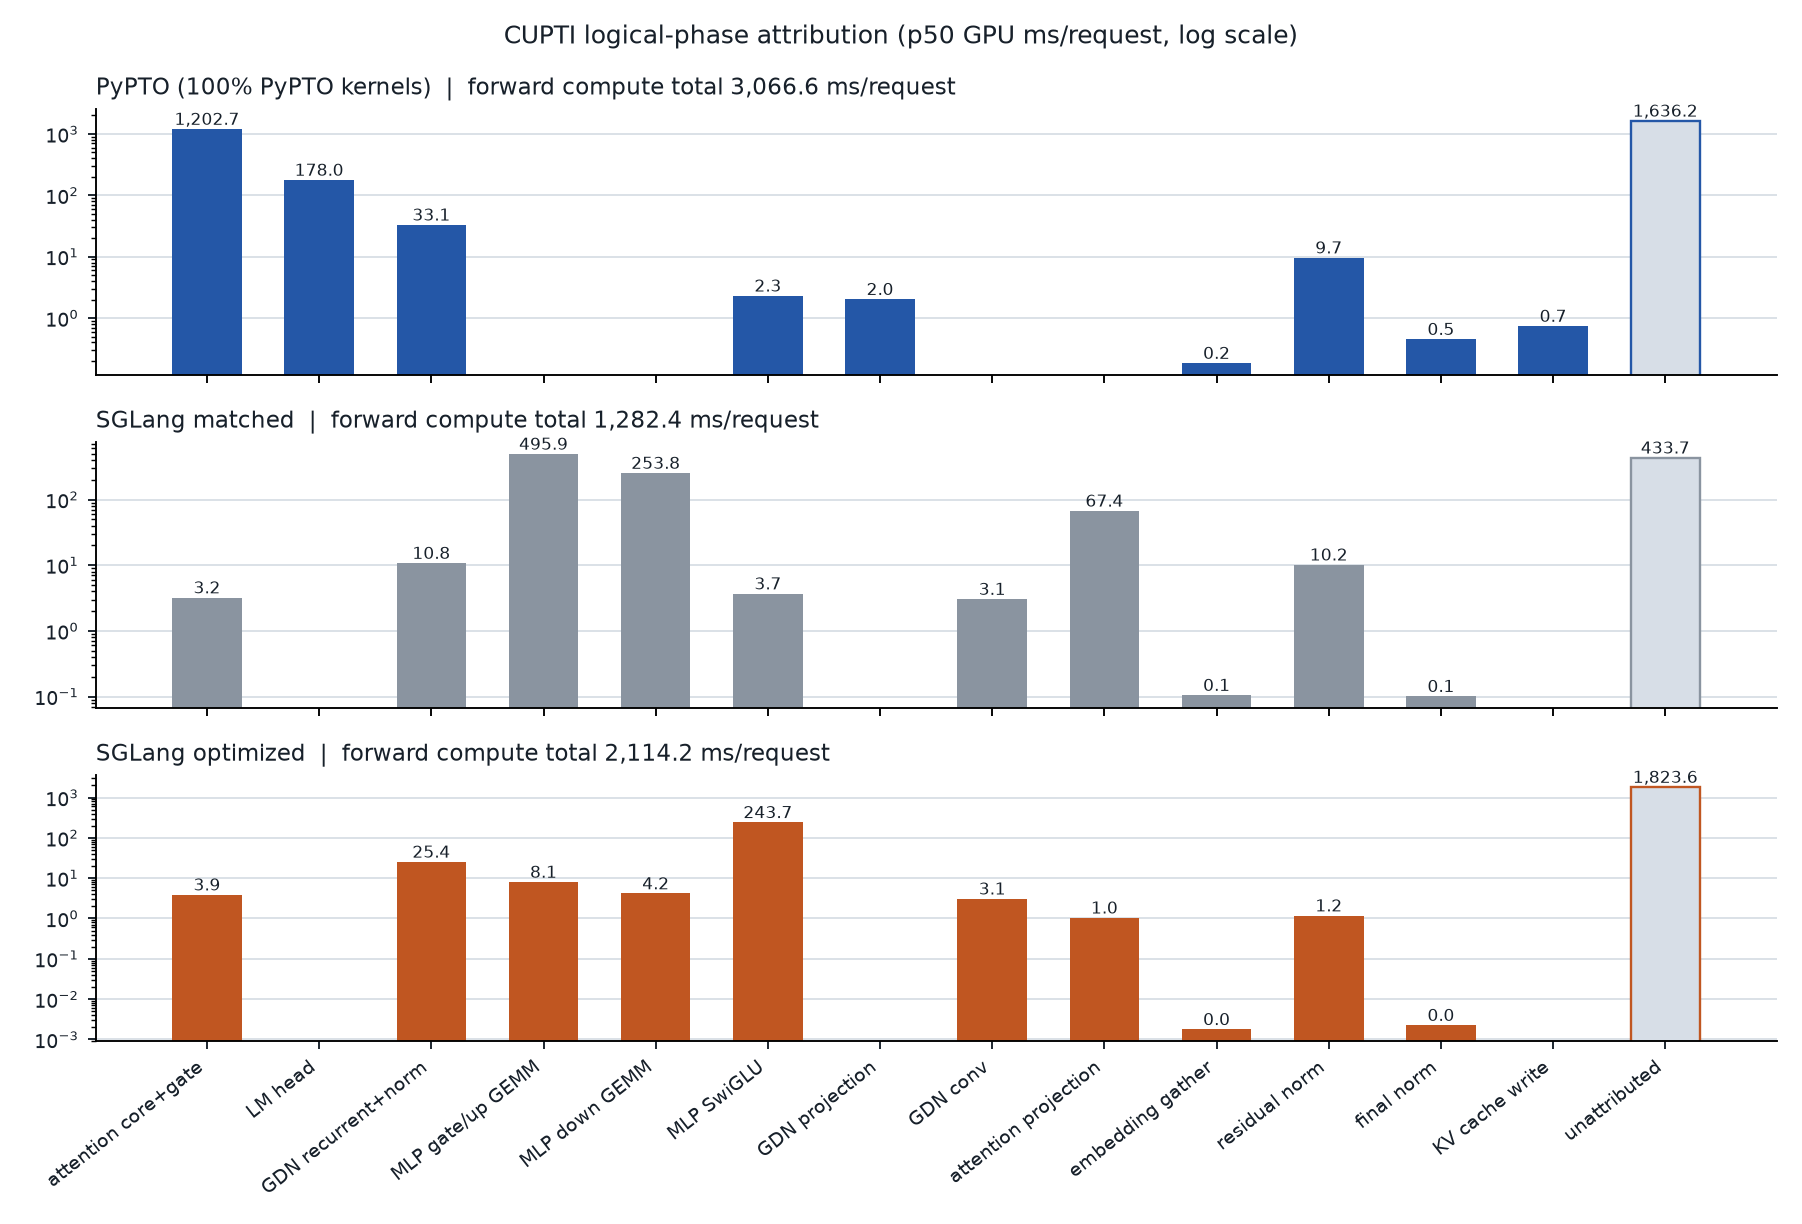
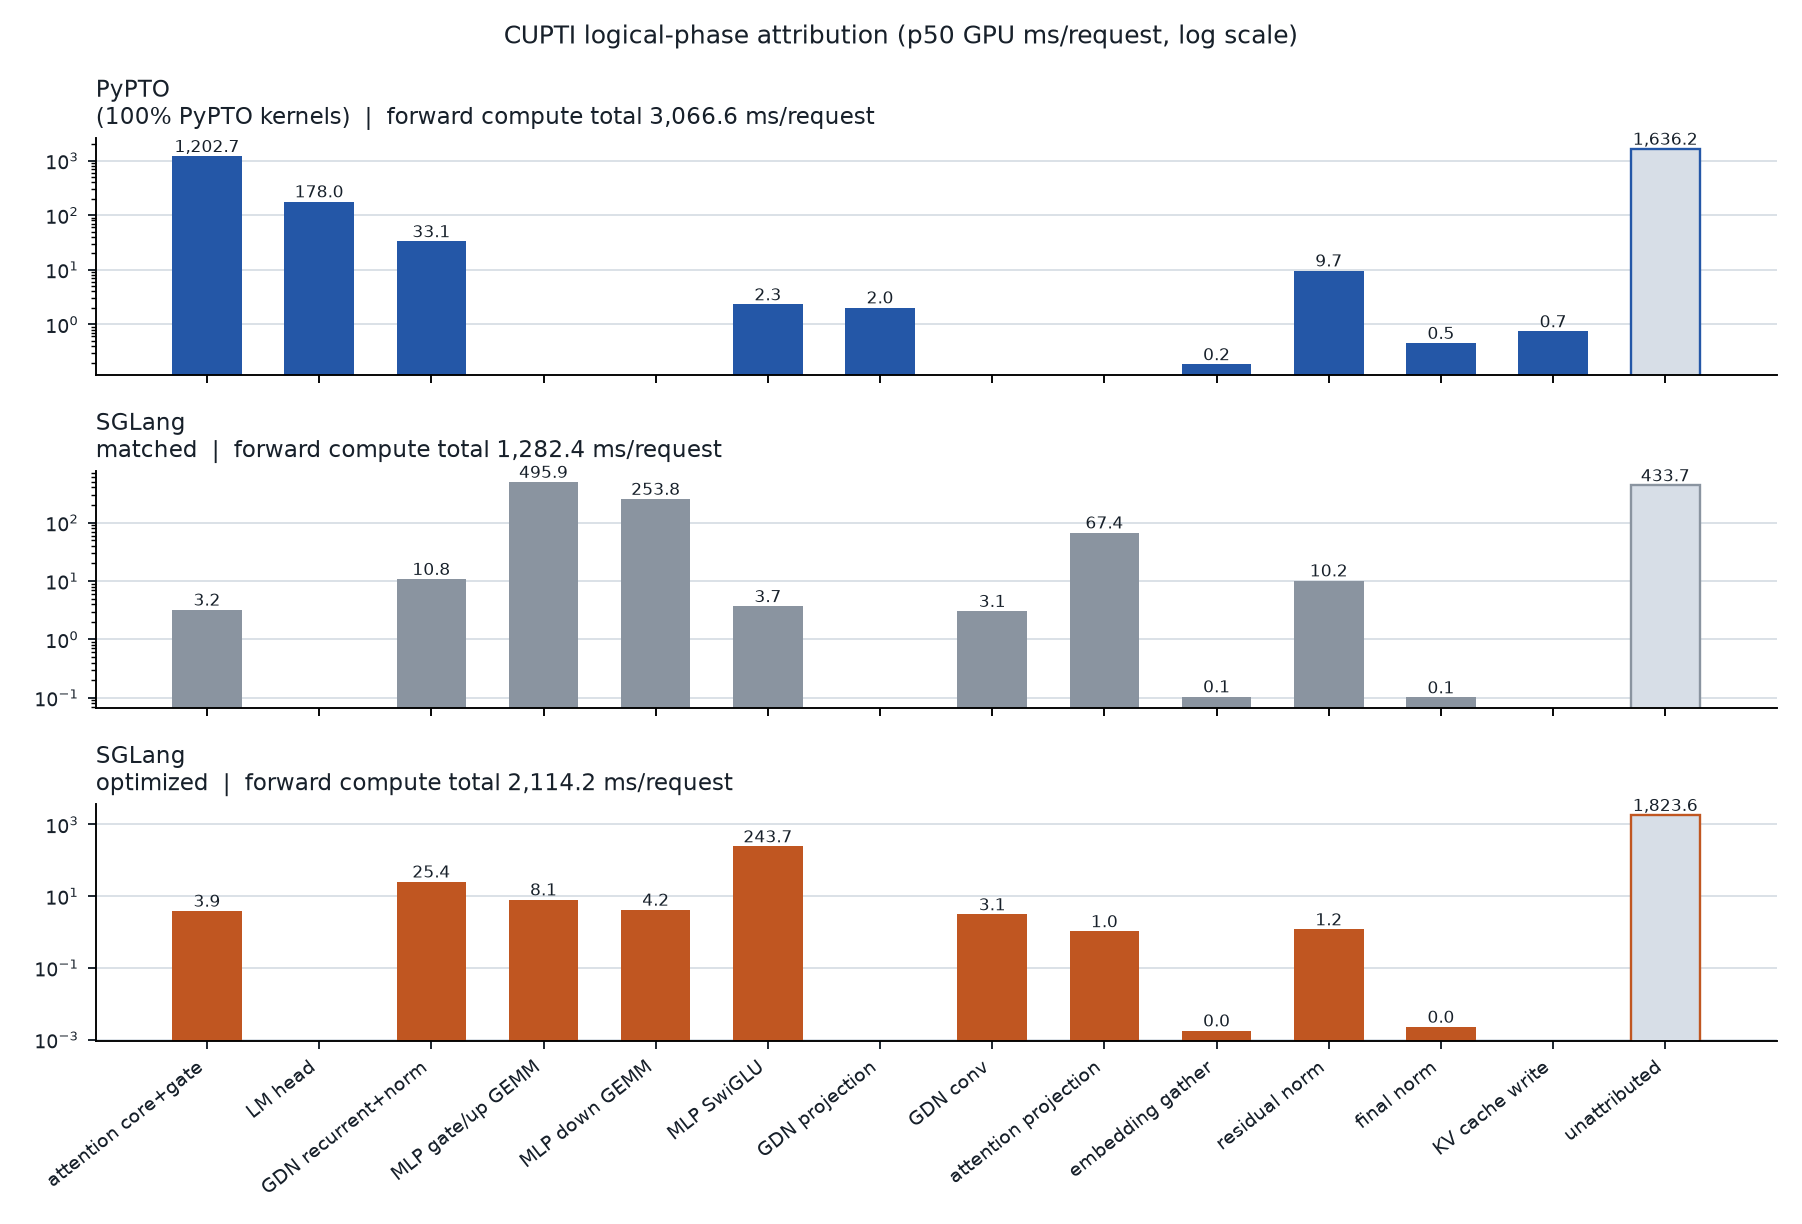
Merge decode attention into one launch and cache wrapper launch packets
- paged_attention_decode (batch=1): a single graph now covers all Q
  heads (16x the CTAs on the latency-bound decode bucket, one launch
  instead of sixteen); per-head arithmetic and reduction order are
  unchanged, batched callers keep the per-head path.
- runtime_bridge.pypto_launch caches immutable launch packets by
  kernel + operand identity, mirroring _boot.launch_graph: steady
  decode reuses the same buffers, so the Inductor wrapper path skips
  per-call argument rebuilding (CUPTI shows the fused SwiGLU kernel
  itself runs ~1 us; the measured 0.21 ms/call was host-side launch
  overhead, not kernel time).

diff --git a/packages/pypto-framework-plugins/src/pypto_plugins/torch/runtime_bridge.py b/packages/pypto-framework-plugins/src/pypto_plugins/torch/runtime_bridge.py
@@ -31,6 +31,12 @@ _observations: dict[int, Any] = {}
 _executables: dict[str, tuple[str, str, int, Any]] = {}
 _kernel_executable_identities: dict[str, tuple[str, str, int]] = {}
 _artifact_records: dict[str, Any] = {}
+# Launch packets are immutable and fully determined by the kernel plus the
+# (pointer, shape, stride) tuple of its operands; steady decode reuses the
+# same buffers every step, so caching the prepared packet removes the
+# per-launch argument rebuild without changing what the kernel reads.
+_packet_cache: dict[tuple[str, tuple[tuple[int, ...], ...]], Any] = {}
+_PACKET_CACHE_LIMIT = 4096
 
 
 def _require_owner_process() -> None:
@@ -270,31 +276,43 @@ def pypto_launch(kernel_name: str, args: tuple[Any, ...], stream: int) -> None:
         dso_sha256,
         expected_device_index,
     )
-    arguments = [
-        runtime.NvidiaLaunchArgument.tensor(
-            int(tensor.data_ptr()),
-            list(tensor.shape),
-            list(tensor.stride()),
-        )
-        for tensor in args
-    ]
-    try:
-        packet = executable.prepare_launch(arguments)
-    except Exception as error:
-        descriptors = []
+    identity = (
+        kernel_name,
+        tuple(
+            (int(tensor.data_ptr()), tuple(tensor.shape), tuple(tensor.stride()))
+            for tensor in args
+        ),
+    )
+    packet = _packet_cache.get(identity)
+    if packet is None:
+        arguments = [
+            runtime.NvidiaLaunchArgument.tensor(
+                int(tensor.data_ptr()),
+                list(tensor.shape),
+                list(tensor.stride()),
+            )
+            for tensor in args
+        ]
         try:
-            for descriptor in artifact.kernel_abi.argument_layout.operand_descriptors:
-                descriptors.append(
-                    (str(descriptor.kind).rsplit(".", 1)[-1], list(descriptor.shape))
-                )
-        except Exception:  # pragma: no cover - diagnostics only
-            pass
-        raise type(error)(
-            f"{kernel_name}: {error}; args="
-            + repr([(tuple(t.shape), tuple(t.stride())) for t in args])
-            + "; abi="
-            + repr(descriptors)
-        ) from error
+            packet = executable.prepare_launch(arguments)
+        except Exception as error:
+            descriptors = []
+            try:
+                for descriptor in artifact.kernel_abi.argument_layout.operand_descriptors:
+                    descriptors.append(
+                        (str(descriptor.kind).rsplit(".", 1)[-1], list(descriptor.shape))
+                    )
+            except Exception:  # pragma: no cover - diagnostics only
+                pass
+            raise type(error)(
+                f"{kernel_name}: {error}; args="
+                + repr([(tuple(t.shape), tuple(t.stride())) for t in args])
+                + "; abi="
+                + repr(descriptors)
+            ) from error
+        if len(_packet_cache) >= _PACKET_CACHE_LIMIT:
+            _packet_cache.clear()
+        _packet_cache[identity] = packet
     artifact_record = _ensure_artifact_record(
         kernel_name,
         artifact,
@@ -303,4 +321,3 @@ def pypto_launch(kernel_name: str, args: tuple[Any, ...], stream: int) -> None:
     )
     with annotate_artifact_launch(artifact_record):
         executable.launch(packet, int(stream))
-    del packet

diff --git a/packages/pypto-kernels/src/pypto_kernels/attention.py b/packages/pypto-kernels/src/pypto_kernels/attention.py
@@ -1710,6 +1710,60 @@ def paged_attention_decode(
     if stream is None:
         stream = torch.cuda.current_stream(query.device)
     queries_per_kv = q_heads // kv_heads
+    out = torch.empty(
+        (batch_size, query_width),
+        dtype=torch.bfloat16,
+        device=query.device,
+    )
+    request_index_view = request_index.as_strided(
+        (batch_size, tokens), (1, 0)
+    )
+    valid_tokens_view = valid_tokens.as_strided(
+        (batch_size, tokens), (1, 0)
+    )
+    mapping_view = virtual_to_physical.view(mapping_rows, 1)
+    if batch_size == 1:
+        # Single-launch path: one graph covers every Q head, so the grid
+        # spans all heads (16x the CTAs of a per-head launch on the
+        # latency-bound decode bucket) and one launch replaces sixteen.
+        # Per-head arithmetic and reduction order are unchanged.
+        merged_key = compile_paged_decode_for(
+            1,
+            q_heads,
+            kv_heads,
+            tokens,
+            head_dim,
+            cache_rows,
+            request_rows,
+            max_context_len,
+            cache_row_stride,
+            mapping_rows,
+            query_row_stride,
+            result_row_stride,
+        )
+        merged_query = query.as_strided(
+            (q_heads, 1, head_dim),
+            (head_dim, query_row_stride, 1),
+        )
+        merged_result = out.as_strided(
+            (q_heads, 1, head_dim),
+            (head_dim, result_row_stride, 1),
+        )
+        launch_graph(
+            merged_key,
+            (
+                merged_query,
+                key_cache,
+                value_cache,
+                req_to_token,
+                request_index_view,
+                valid_tokens_view,
+                mapping_view,
+                merged_result,
+            ),
+            stream.cuda_stream,
+        )
+        return out
     graph_key = compile_paged_decode_for(
         batch_size,
         1,
@@ -1724,18 +1778,6 @@ def paged_attention_decode(
         query_row_stride,
         result_row_stride,
     )
-    out = torch.empty(
-        (batch_size, query_width),
-        dtype=torch.bfloat16,
-        device=query.device,
-    )
-    request_index_view = request_index.as_strided(
-        (batch_size, tokens), (1, 0)
-    )
-    valid_tokens_view = valid_tokens.as_strided(
-        (batch_size, tokens), (1, 0)
-    )
-    mapping_view = virtual_to_physical.view(mapping_rows, 1)
     query_storage_offset = int(query.storage_offset())
     key_storage_offset = int(key_cache.storage_offset())
     value_storage_offset = int(value_cache.storage_offset())

diff --git a/tools/plot_release_charts.py b/tools/plot_release_charts.py
@@ -39,9 +39,9 @@ LANE_COLORS = {
     "sglang-optimized": WARM,
 }
 LANE_LABELS = {
-    "pypto": "PyPTO (100% PyPTO kernels)",
-    "sglang-matched": "SGLang matched",
-    "sglang-optimized": "SGLang optimized",
+    "pypto": "PyPTO\n(100% PyPTO kernels)",
+    "sglang-matched": "SGLang\nmatched",
+    "sglang-optimized": "SGLang\noptimized",
 }
 
 
